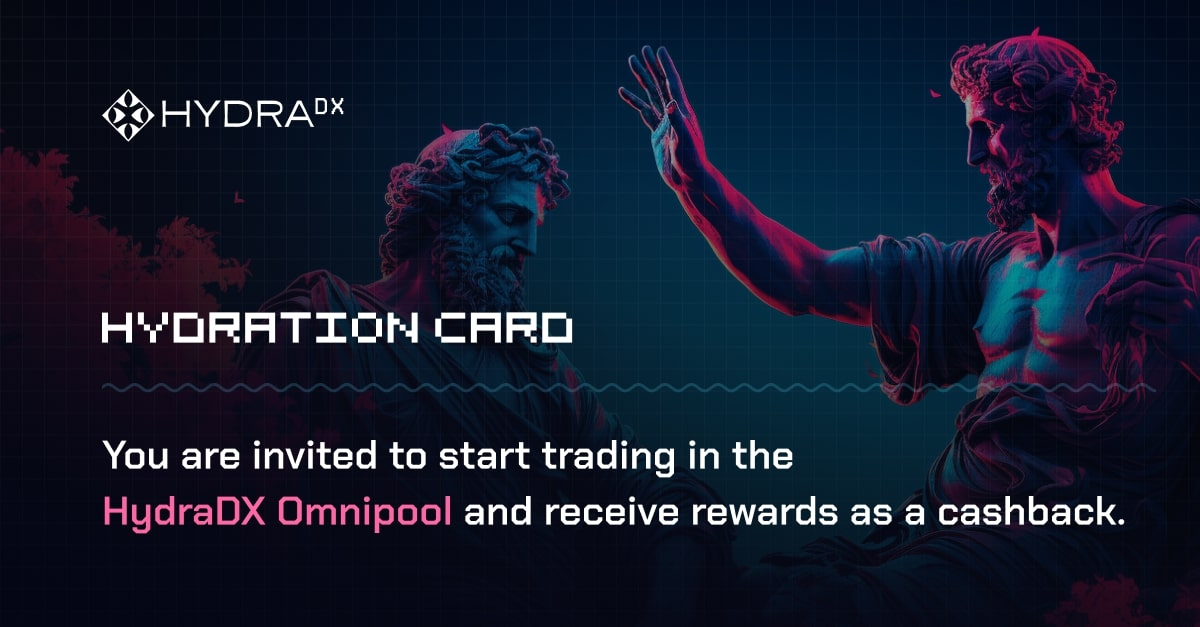
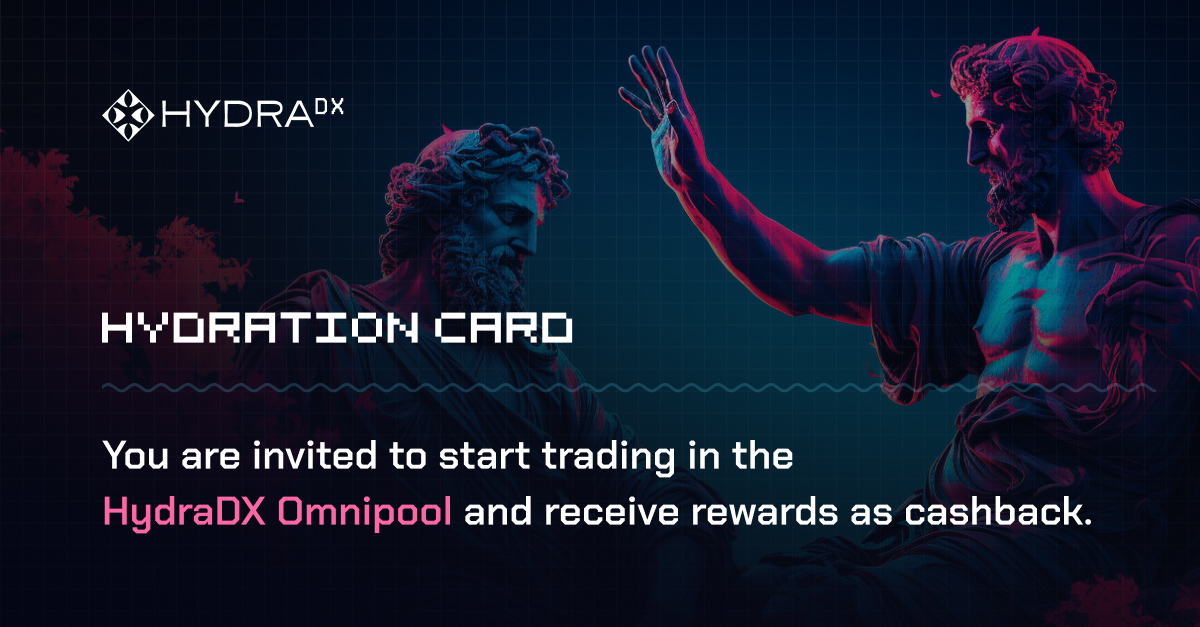
updated referrals meta image

diff --git a/pages/[referral].tsx b/pages/[referral].tsx
@@ -5,7 +5,7 @@ import { useEffect } from "react"
 const PAGE_TITLE = 'Invite your frens to a pool party | HydraDX'
 const PAGE_DESCRIPTION = 'Earn rewards from the trading fees generated by all users that you help onboard to HydraDX - forever.'
 const PAGE_CANONICAL = 'https://hydradx.io'
-const PAGE_IMAGE = 'https://hydradx.io/assets/meta-referrals-image.jpg'
+const PAGE_IMAGE = 'https://hydradx.io/assets/meta-referrals-image.jpg?v2'
 
 const Referral = () => {
   const { query, push, isReady } = useRouter()
